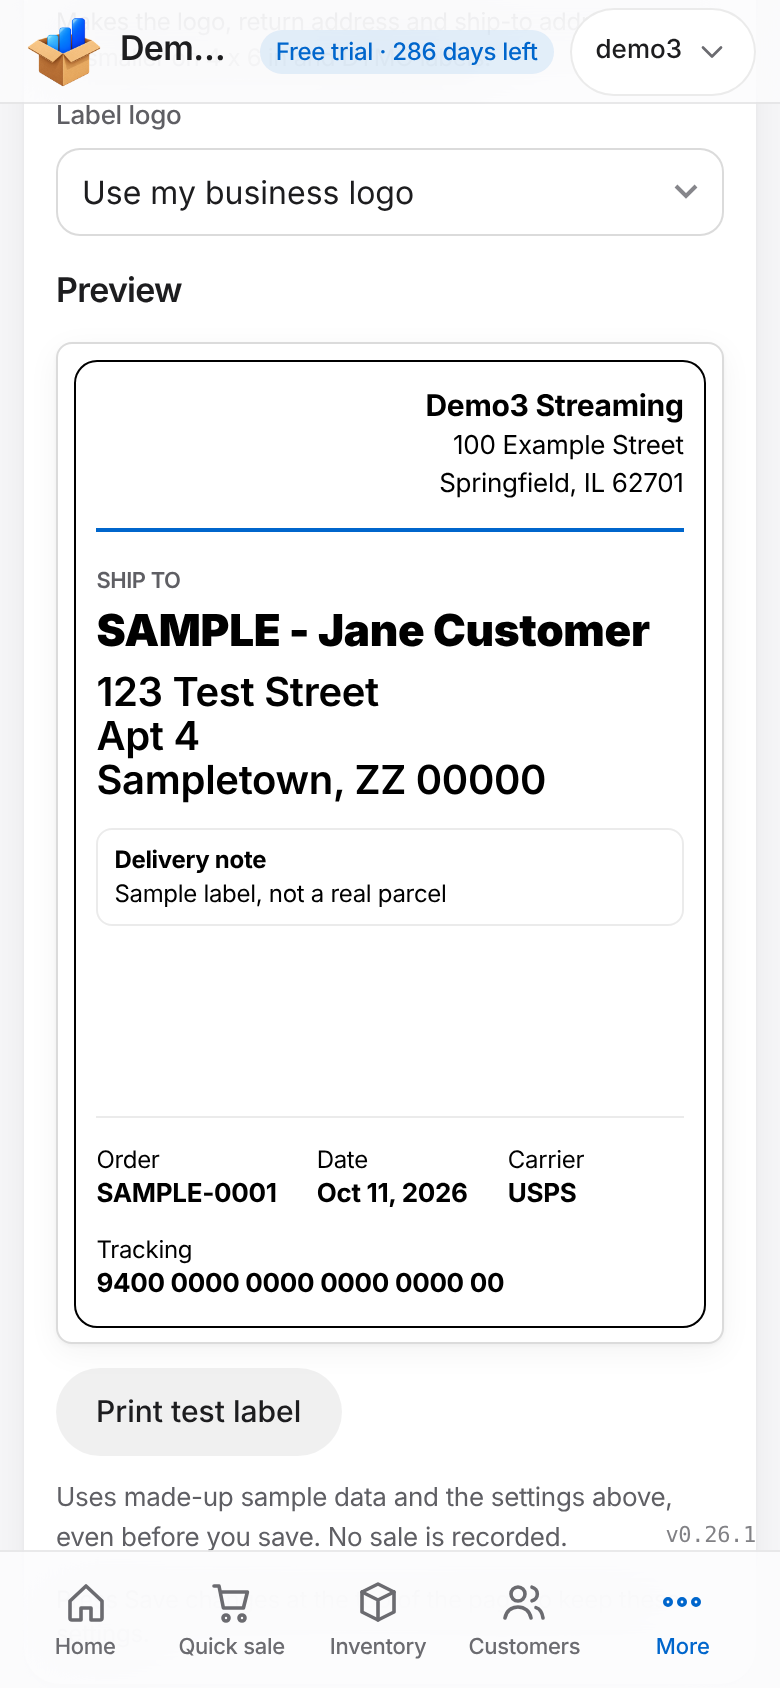
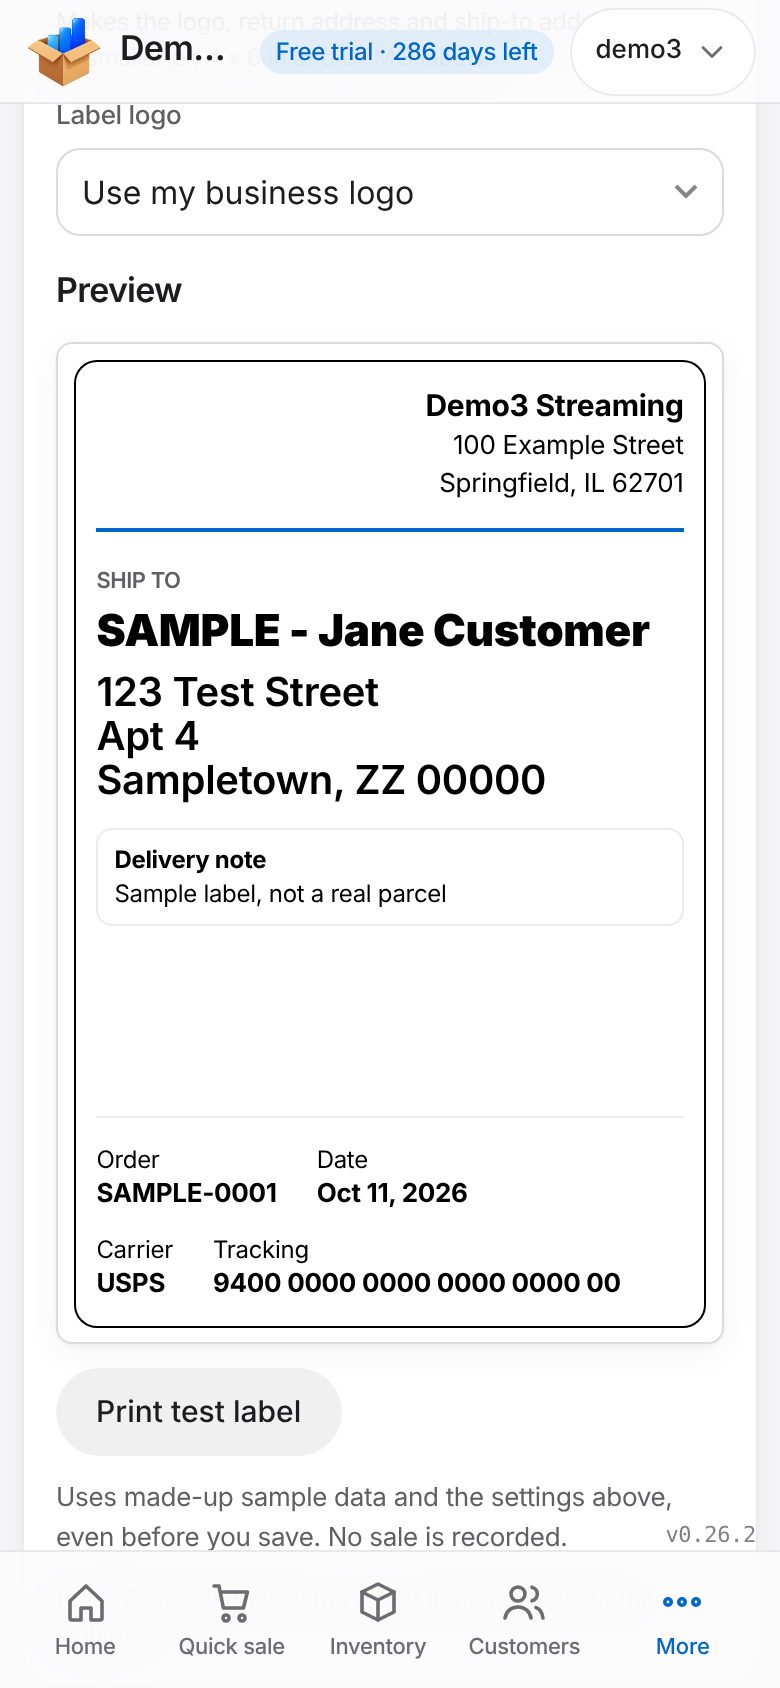
v0.26.2: label bottom rows - Order and Date, then Carrier and Tracking
Claude-Session: https://claude.ai/code/session_01T9RbTAGYLrwNV7BWqHEM4u

Changed region(s): [[0.1231, 0.7393, 0.8, 0.7701], [0.6462, 0.6777, 0.7385, 0.7085]]

diff --git a/public/css/commerce.css b/public/css/commerce.css
@@ -174,8 +174,9 @@ html.reorder-drag { user-select: none; -webkit-user-select: none; cursor: grabbi
 .label:is(.size-4x6, .size-dymo).txt-largest .label-to { font-size: var(--text-h1-sm); }
 .label:is(.size-4x6, .size-dymo).txt-largest .label-to span { font-size: var(--text-h2); }
 .label-note { margin-top: var(--space-md); padding: var(--space-xs) var(--space-sm); border: var(--border-default); border-radius: var(--radius-sm); font-size: var(--text-xs); overflow-wrap: anywhere; }
-.label-meta { display: flex; flex-wrap: wrap; gap: var(--space-sm) var(--space-xl); margin-top: auto; padding-top: var(--space-md); border-top: var(--border-default); font-size: var(--text-xs); overflow-wrap: anywhere; }
-.label-meta > div { flex: 0 1 auto; min-width: var(--space-0); }   /* short items share a row; a long one such as a tracking number takes its own line instead of wrapping */
+.label-meta { display: flex; flex-direction: column; gap: var(--space-sm); margin-top: auto; padding-top: var(--space-md); border-top: var(--border-default); font-size: var(--text-xs); overflow-wrap: anywhere; }
+.label-meta-row { display: flex; flex-wrap: wrap; gap: var(--space-sm) var(--space-xl); }   /* two rows: Order and Date, then Carrier and Tracking; an item only drops to its own line if the label is too narrow for both */
+.label-meta-row > div { flex: 0 1 auto; min-width: var(--space-0); }
 .label-meta b { display: block; font-size: var(--text-sm); }
 .style-plain, .style-plain .label-tag { color: var(--color-label-ink); }
 .style-plain .label-note, .style-plain .label-meta { border-color: var(--color-label-ink); }

diff --git a/public/js/app/label.js b/public/js/app/label.js
@@ -19,7 +19,7 @@
     return `<div class="label ${SIZE_CLASS[o.size] || 'size-4x6'} ${LOOK_CLASS[o.look] || 'style-themed'}${o.border === false ? '' : ' has-border'} ${TEXT_CLASS[o.text] || 'txt-larger'}" data-order="${esc(d.no)}">${o.test ? '<i class="label-mark m-tl"></i><i class="label-mark m-tr"></i><i class="label-mark m-bl"></i><i class="label-mark m-br"></i>' : ''}<div class="label-top">${logo ? `<img class="label-logo" src="${esc(logo)}" alt="">` : '<span></span>'}${from.name || fromLines.length ? `<div class="label-from">${from.name ? `<b>${esc(from.name)}</b>` : ''}${fromLines.map(esc).join('<br>')}</div>` : ''}</div>
       <div class="label-tag">Ship to</div><div class="label-to"><b>${esc(to.name || d.customerName || '')}</b><span>${D.lines(to).map(esc).join('<br>')}</span></div>
       ${dl.note ? `<div class="label-note"><b>Delivery note</b><br>${esc(dl.note)}</div>` : ''}
-      <div class="label-meta">${meta.map(([k, v]) => `<div>${esc(k)}<b>${esc(v)}</b></div>`).join('')}</div></div>`;
+      <div class="label-meta">${[meta.filter(m => m[0] === 'Order' || m[0] === 'Date'), meta.filter(m => m[0] === 'Carrier' || m[0] === 'Tracking')].filter(r => r.length).map(r => `<div class="label-meta-row">${r.map(([k, v]) => `<div>${esc(k)}<b>${esc(v)}</b></div>`).join('')}</div>`).join('')}</div></div>`;
   };
 
   // The label view: preview, choices for this print only, Print. Several sales give one label per page.

diff --git a/CHANGELOG.md b/CHANGELOG.md
@@ -3,6 +3,11 @@
 Every published version has an entry here, newest first. Format: [Keep a Changelog](https://keepachangelog.com/), versioning: [SemVer](https://semver.org/).
 These notes are used verbatim as the GitHub Release notes (see `docs/RELEASING.md`).
 
+## [0.26.2] - 2026-10-11
+
+### Changed
+- **Label bottom rows.** The bottom of a shipping label is now two fixed rows: Order and Date, then Carrier and Tracking, with the tracking number always on one line. When the tracking number is added later the carrier stays where it was and the tracking appears beside it; with a carrier only, the carrier sits alone at the left of its row. The Download PDF version lays out the same way. Tests cover tracking present, carrier only, and neither.
+
 ## [0.26.1] - 2026-10-11
 
 ### Fixed
